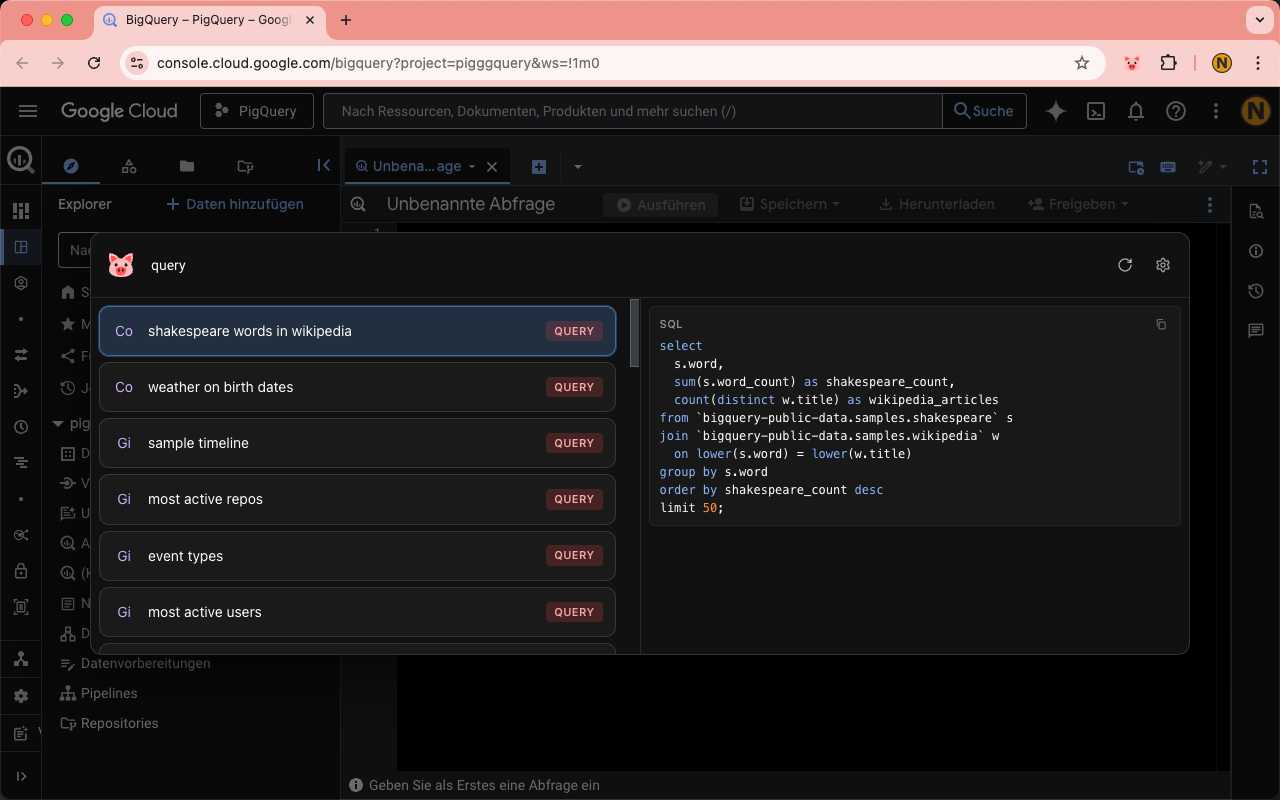
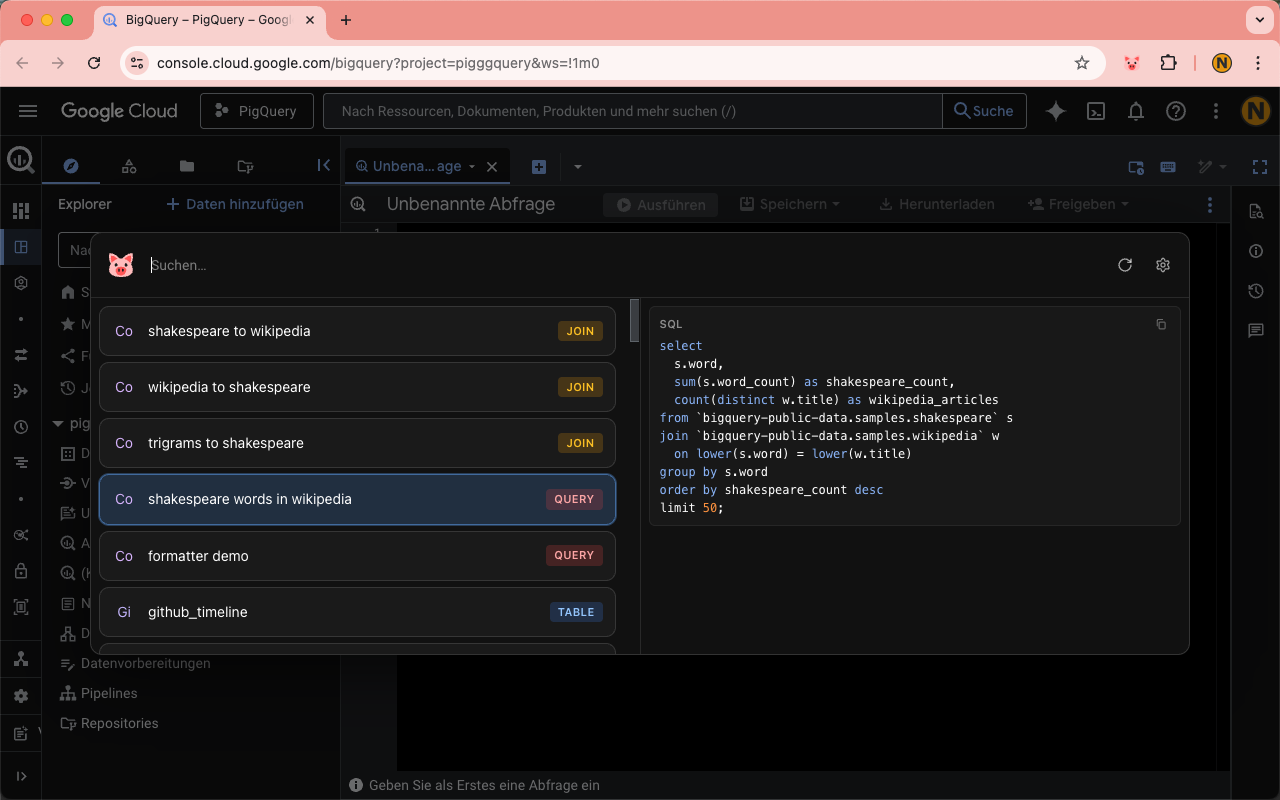
Add third screenshot.

diff --git a/scripts/bot.js b/scripts/bot.js
@@ -91,12 +91,46 @@ async function recordAction() {
   // Verify pig-modal-item exists
   await page.waitForSelector('.pig-modal-item', { timeout: 5000 });
 
-  // Focus the input and type "query", wait for list to update
+  // Press down until we find "shakespeare words in wikipedia"
   await page.click('.pig-modal-input');
-  await page.keyboard.type('query');
-  await page.waitForTimeout(1000);
+  while (true) {
+    await page.keyboard.press('ArrowDown');
+    await page.waitForTimeout(100);
+    const activeText = await page.$eval('.pig-modal-item.active .pig-modal-item-name', el => el.textContent);
+    if (activeText === 'shakespeare words in wikipedia') break;
+  }
 
   await screenshot('screenshots/pigquery-2.png');
+
+  // Clear and type "formatter demo"
+  await page.fill('.pig-modal-input', 'formatter demo');
+  await page.waitForTimeout(500);
+
+  // Click the item with name "formatter demo"
+  await page.click('.pig-modal-item-name:has-text("formatter demo")');
+  await page.waitForTimeout(500);
+
+  // Run the query with command+enter
+  await page.keyboard.press('Meta+Enter');
+
+  // Wait for results table to appear
+  await page.waitForSelector('bq-results-table-optimized', { timeout: 30000 });
+  await page.waitForTimeout(1000);
+
+  // Focus the table with ctrl+shift+u
+  await page.keyboard.press('Control+Shift+KeyU');
+  await page.waitForTimeout(500);
+
+  // Hit right arrow twice to change focused cell
+  await page.keyboard.press('ArrowRight');
+  await page.keyboard.press('ArrowRight');
+  await page.waitForTimeout(300);
+
+  // Hit enter to open the snippets modal
+  await page.keyboard.press('Enter');
+  await page.waitForTimeout(1000);
+
+  await screenshot('screenshots/pigquery-3.png');
 
   chromeProcess.kill('SIGTERM');
 }
